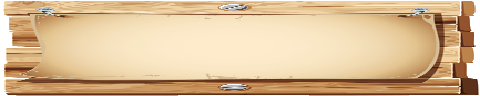
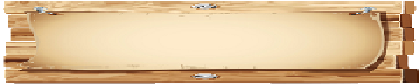
Update levels page

diff --git a/Webpage/levels.html b/Webpage/levels.html
@@ -1,0 +1,45 @@
+<!DOCTYPE html>
+<html>
+<head>
+    <meta charset="utf-8">	
+    <link rel="stylesheet" href="http://maxcdn.bootstrapcdn.com/bootstrap/3.3.6/css/bootstrap.min.css">
+    <script src="https://ajax.googleapis.com/ajax/libs/jquery/1.12.2/jquery.min.js"></script>
+    <script src="http://maxcdn.bootstrapcdn.com/bootstrap/3.3.6/js/bootstrap.min.js"></script>
+    <link href="styles/base.css" rel="stylesheet" type="text/css">
+
+    <script src="js/changeSkeSke.js"></script>
+
+</head>
+<body>
+    <div id="Wrapper">
+
+        <!--Title-->
+        <div id="TitleBox">
+            <p class="title"><b>Choose</b></p>
+            <p class="title"><b>A &nbsp;&nbsp;Level</b></p>
+        </div>
+
+        <!--Music-->
+        <div id="music">
+            <img id="SkeSke" src="pictures/skeske.png" alt="skeske" onclick="changeSkeSke()">
+        </div>
+
+        <!--Play-->
+	    <div id="easyButton" class="LinkButton">
+            <a href="index.html">Easy</a>
+        </div>
+
+        <!--Tutorial-->
+	    <div id="normalButton" class="LinkButton">
+            <a href="index.html">Normal</a>
+        </div>
+
+        <!--LeaderBoard-->
+	    <div id="hardButton" class="LinkButton">
+            <a href="index.html">Hard</a>
+        </div>
+  </div>
+  
+
+</body>
+</html>

diff --git a/Webpage/js/changeSkeSke.js b/Webpage/js/changeSkeSke.js
@@ -1,0 +1,12 @@
+var skeskeCount = 0;
+function changeSkeSke() {
+    var skeske = document.getElementById('SkeSke');
+
+    if (skeskeCount == 0) {
+        skeske.src = "pictures/skeskeSleep.png";
+        skeskeCount = 1;
+    }  else if (skeskeCount == 1) {
+        skeske.src = "pictures/skeske.png";
+        skeskeCount = 0;
+    }
+}

diff --git a/Webpage/styles/base.css b/Webpage/styles/base.css
@@ -26,8 +26,10 @@ body {
 }
 
 #music {
-    width: 20em;
-    height: 7em;
+    width: 30em;
+    height: 6em;
+    float: left;
+    text-align: right;
 }
 
 .LinkButton {

diff --git a/Webpage/index.php b/Webpage/index.php
@@ -24,7 +24,7 @@
 
         <!--Play-->
 	    <div id="playButton" class="LinkButton">
-            <a href="index.html">Play</a>
+            <a href="levels.html">Play</a>
         </div>
 
         <!--Tutorial-->
@@ -49,7 +49,8 @@
                 <h4 class="modal-title">Modal Header</h4>
             </div>
             <div class="modal-body">
-            <?php
+                <!--Leaderboard-->
+                <?php
                 $servername = "mysql7.000webhost.com";
                 $username = "a1753342_user";
                 $password = "bladeands0ul";
@@ -77,7 +78,7 @@
                     }
 
                     $conn->close();
-                ?>  
+                ?>
 
             </div>
             <div class="modal-footer">

diff --git a/Webpage/Leaderboard.php b/Webpage/Leaderboard.php
@@ -1,0 +1,14 @@
+<?php
+
+?>
+
+<!DOCTYPE html>
+<html lang="en">
+    <head>
+        <meta charset="utf-8" />
+        <title></title>
+    </head>
+    <body>
+        
+    </body>
+</html>
